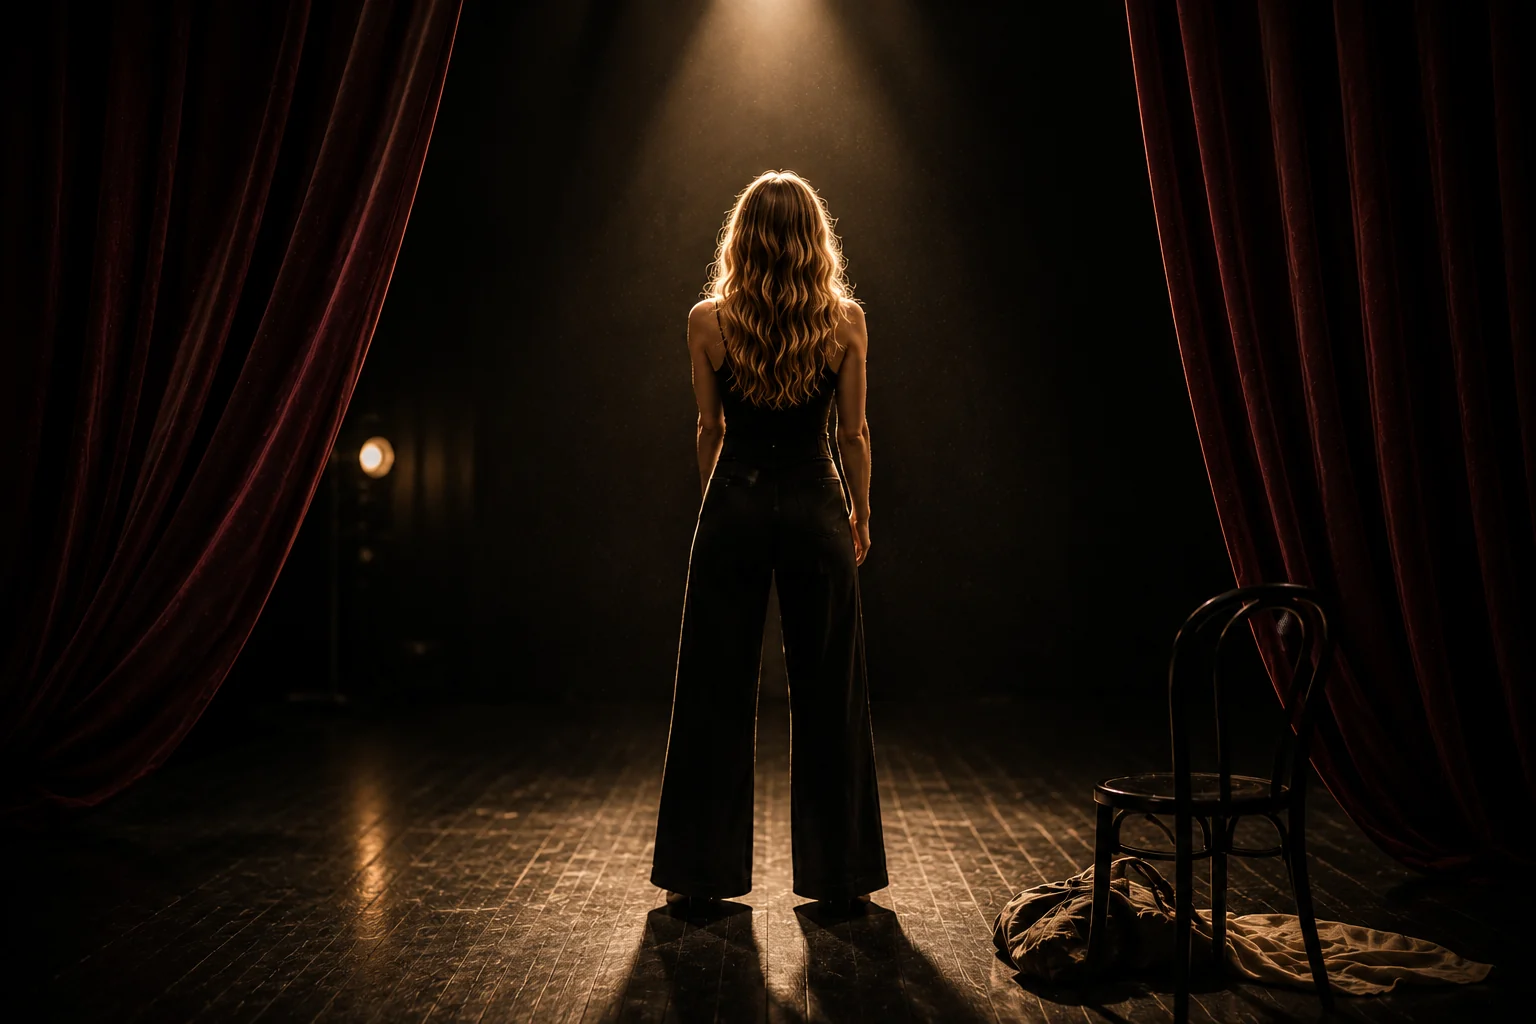
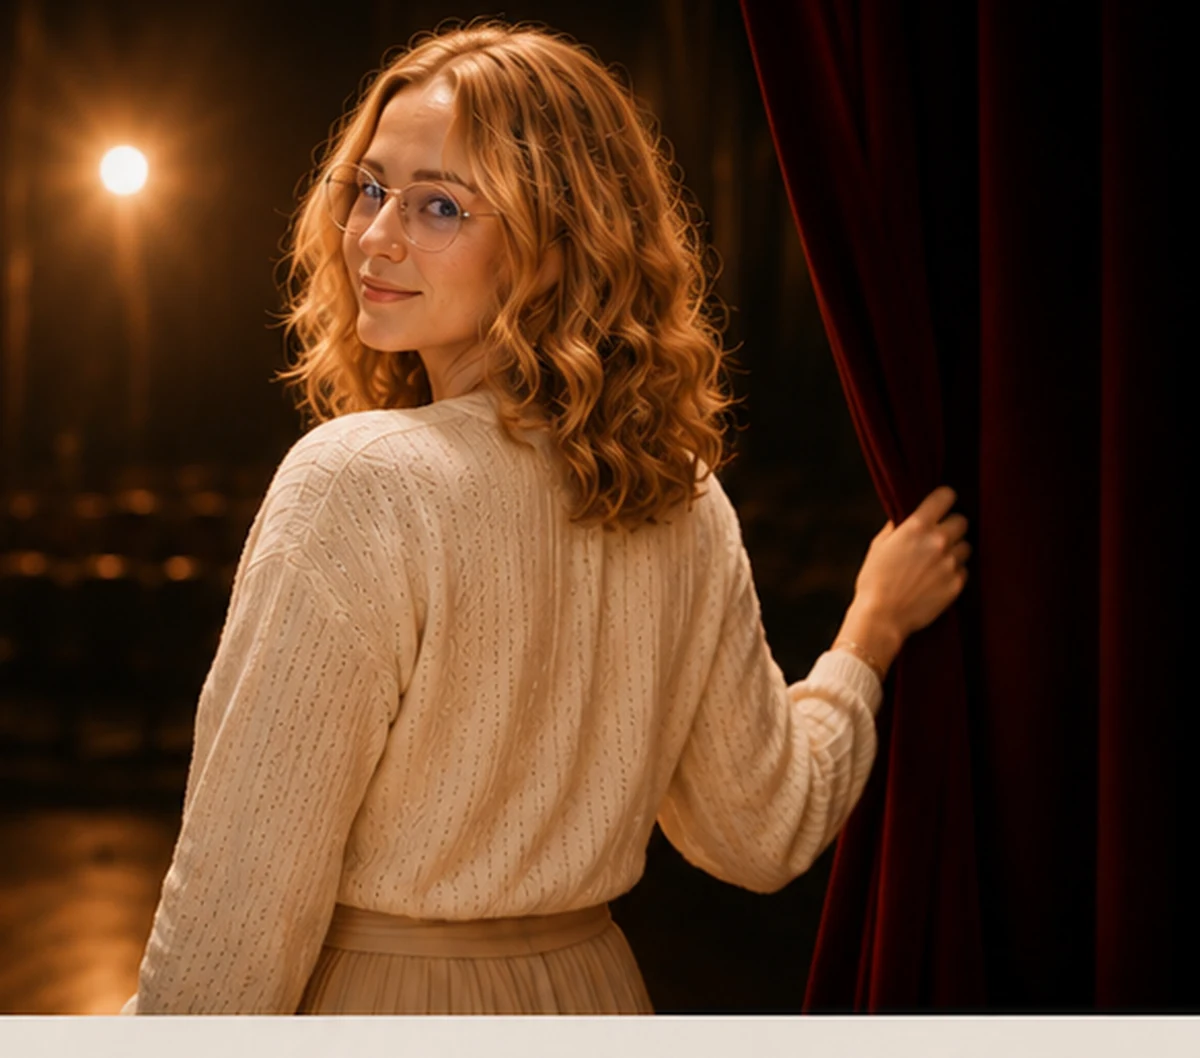
Add files via upload

diff --git a/index.html b/index.html
@@ -30,7 +30,10 @@
 </header>
 
 <main>
-<section class="home-hero">
+
+<section class="home-hero home-hero-v43">
+  <div class="hero-dark"></div>
+  <img class="hero-person" src="hero-curtain.webp" alt="Sarah öffnet den roten Theatervorhang">
   <div class="wrap hero-content">
     <div class="eyebrow hero-kicker">Stage · Voice · Story</div>
     <h1>Vorhang auf<br>für dich.</h1>
@@ -39,6 +42,7 @@
     <a class="btn gold" href="#welten">Entdecke SCHAMUR</a>
   </div>
 </section>
+
 
 <section class="world-section" id="welten">
   <div class="wrap world-grid">
@@ -69,23 +73,60 @@
   </div>
 </section>
 
-<section class="home-about">
-  <div class="wrap about-preview">
-    <div>
-      <div class="eyebrow">Über SCHAMUR</div>
-      <h2>Kunst, die berührt.<br>Für Menschen, die<br>etwas zu sagen haben.</h2>
-      <div class="gold-rule"></div>
-      <p>SCHAMUR ist ein Raum für Ausdruck, Entwicklung und echte Geschichten. Hier treffen Schauspiel, Stimme, Film und die Freude daran zusammen, etwas Eigenes sichtbar zu machen.</p>
-      <div class="script">Schamur ♡</div>
-      <a class="btn gold" href="about.html">Mehr über mich</a>
+
+<section class="home-about offer-glance">
+  <div class="wrap">
+    <div class="offer-glance-head">
+      <div>
+        <div class="eyebrow">Auf einen Blick</div>
+        <h2>Was du bei SCHAMUR findest.</h2>
+      </div>
+      <p>Schauspiel, Stimme und Storytelling gehören bei SCHAMUR zusammen. Nicht als Theorie – sondern als etwas, das du ausprobieren, trainieren und sichtbar machen kannst.</p>
     </div>
-    <div class="preview-collage">
-      <img class="main" src="about-portrait.webp" alt="Sarah">
-      <img class="polaroid" src="about-stage.webp" alt="Sarah auf der Bühne">
-      <img class="portrait" src="about-headshot.webp" alt="Portrait von Sarah">
+
+    <div class="glance-grid">
+      <article class="glance-card">
+        <img src="stage-scene-work.webp" alt="Szenenarbeit und Schauspieltraining">
+        <div class="glance-copy">
+          <div class="eyebrow">Stage</div>
+          <h3>Schauspiel & Szenenarbeit</h3>
+          <p>Improvisation, Rollenarbeit, Präsenz, Ausdruck, Kamera und gemeinsames Spielen.</p>
+          <a href="stage.html">Stage entdecken →</a>
+        </div>
+      </article>
+
+      <article class="glance-card">
+        <img src="voice-performer.webp" alt="Gesang und Performance am Mikrofon">
+        <div class="glance-copy">
+          <div class="eyebrow">Voice</div>
+          <h3>Gesang & Performance</h3>
+          <p>Stimme, Technik, Songinterpretation, Bühnenpräsenz und meine eigene Musik als Sisa.</p>
+          <a href="voice.html">Voice entdecken →</a>
+        </div>
+      </article>
+
+      <article class="glance-card">
+        <img src="story-studio.webp" alt="Drehbuch, Kamera und kreative Filmarbeit">
+        <div class="glance-copy">
+          <div class="eyebrow">Story</div>
+          <h3>Schreiben & Film</h3>
+          <p>Drehbücher, Filmideen, Regie, Projektentwicklung und Geschichten, die auf die Leinwand wollen.</p>
+          <a href="story.html">Story entdecken →</a>
+        </div>
+      </article>
+    </div>
+
+    <div class="glance-about">
+      <div>
+        <div class="eyebrow">About Me</div>
+        <h3>Und wer steckt dahinter?</h3>
+        <p>Auf meiner About-Me-Seite findest du meinen Weg, meine Ausbildung, Theater- und Leitungserfahrung sowie meine aktuellen kreativen Projekte.</p>
+      </div>
+      <a class="btn gold" href="about.html">Mehr über mich</a>
     </div>
   </div>
 </section>
+
 
 <section class="ocean-strip">
   <blockquote>„Die Bühne wartet nicht auf Perfektion. Sie wartet auf dich.“</blockquote>

diff --git a/styles.css b/styles.css
@@ -243,3 +243,107 @@ p{margin:1rem 0}
   .home-hero h1{font-size:3.6rem}
   .wordmark-main{font-size:1.4rem}
 }
+
+
+/* V4.3 HOME PAGE FIX */
+.home-hero-v43{
+  min-height:625px;
+  background:#0B0907;
+  position:relative;
+  overflow:hidden;
+  display:flex;
+  align-items:center;
+}
+.home-hero-v43::before,
+.home-hero-v43::after{display:none!important}
+.hero-dark{
+  position:absolute;
+  inset:0;
+  background:
+    radial-gradient(circle at 48% 35%,rgba(185,137,66,.13),transparent 25%),
+    linear-gradient(90deg,#090705 0%,#090705 39%,rgba(9,7,5,.86) 50%,rgba(9,7,5,.18) 74%,rgba(74,13,16,.16) 100%);
+  z-index:1;
+}
+.hero-person{
+  position:absolute;
+  z-index:0;
+  right:0;
+  top:0;
+  height:100%;
+  width:62%;
+  object-fit:cover;
+  object-position:center 34%;
+}
+.home-hero-v43 .hero-content{
+  z-index:2;
+  position:relative;
+  padding-top:92px;
+  max-width:470px;
+}
+.home-hero-v43 h1{
+  font-size:clamp(3.8rem,5.15vw,5.35rem);
+  line-height:.96;
+}
+.home-hero-v43 p{font-size:.96rem}
+
+.offer-glance{padding:78px 0;background:linear-gradient(120deg,#faf5ef,#f2e7dc)}
+.offer-glance-head{
+  display:grid;
+  grid-template-columns:1fr 1fr;
+  gap:45px;
+  align-items:end;
+  margin-bottom:36px;
+}
+.offer-glance-head h2{font-size:3.55rem}
+.offer-glance-head p{color:var(--muted);max-width:560px}
+.glance-grid{
+  display:grid;
+  grid-template-columns:repeat(3,1fr);
+  gap:18px;
+}
+.glance-card{
+  background:#fff;
+  border:1px solid var(--line);
+  overflow:hidden;
+}
+.glance-card img{
+  height:330px;
+  object-fit:cover;
+}
+.glance-copy{padding:24px}
+.glance-copy h3{font-size:1.9rem;margin:6px 0 10px}
+.glance-copy p{font-size:.84rem;color:var(--muted);min-height:82px}
+.glance-copy a{font-size:.7rem;text-transform:uppercase;letter-spacing:.08em;color:var(--gold);font-weight:600}
+.glance-about{
+  margin-top:20px;
+  padding:28px 30px;
+  display:flex;
+  justify-content:space-between;
+  gap:30px;
+  align-items:center;
+  background:#fff;
+  border:1px solid var(--line);
+}
+.glance-about h3{margin:6px 0 8px}
+.glance-about p{margin:0;color:var(--muted);max-width:720px}
+
+@media(max-width:900px){
+  .hero-person{width:72%;opacity:.9}
+  .offer-glance-head{grid-template-columns:1fr}
+  .glance-grid{grid-template-columns:1fr}
+  .glance-card{display:grid;grid-template-columns:.9fr 1.1fr}
+  .glance-card img{height:100%;min-height:280px}
+}
+@media(max-width:700px){
+  .home-hero-v43{min-height:690px;align-items:end}
+  .hero-person{width:100%;height:61%;top:0;object-position:center 28%;opacity:.9}
+  .hero-dark{
+    background:linear-gradient(180deg,rgba(9,7,5,.10) 0%,rgba(9,7,5,.22) 38%,#090705 65%,#090705 100%);
+  }
+  .home-hero-v43 .hero-content{padding:0 0 55px;max-width:100%}
+  .home-hero-v43 h1{font-size:3.55rem}
+  .offer-glance-head h2{font-size:3rem}
+  .glance-card{grid-template-columns:1fr}
+  .glance-card img{height:290px}
+  .glance-about{flex-direction:column;align-items:flex-start}
+}
